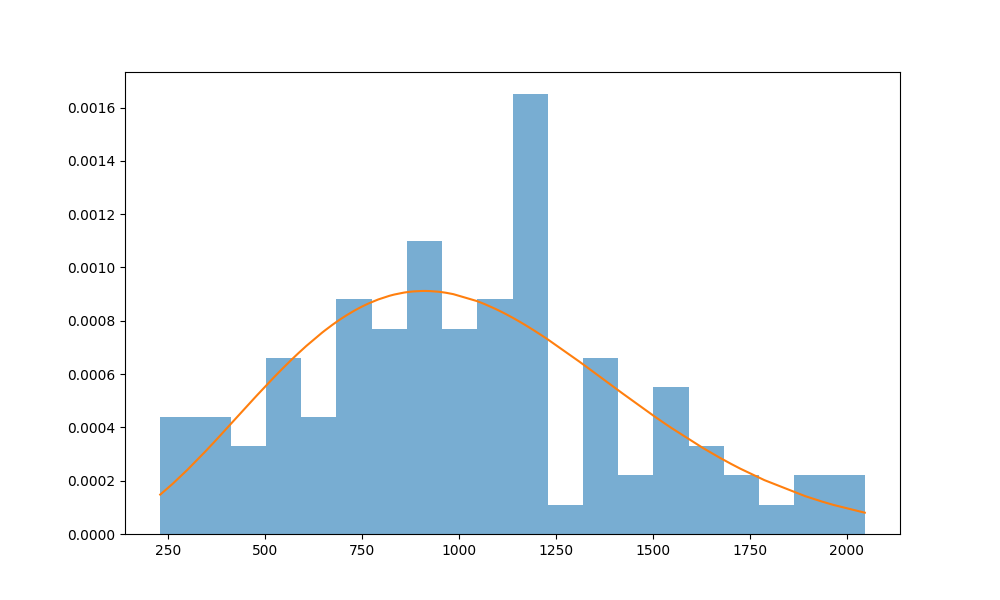
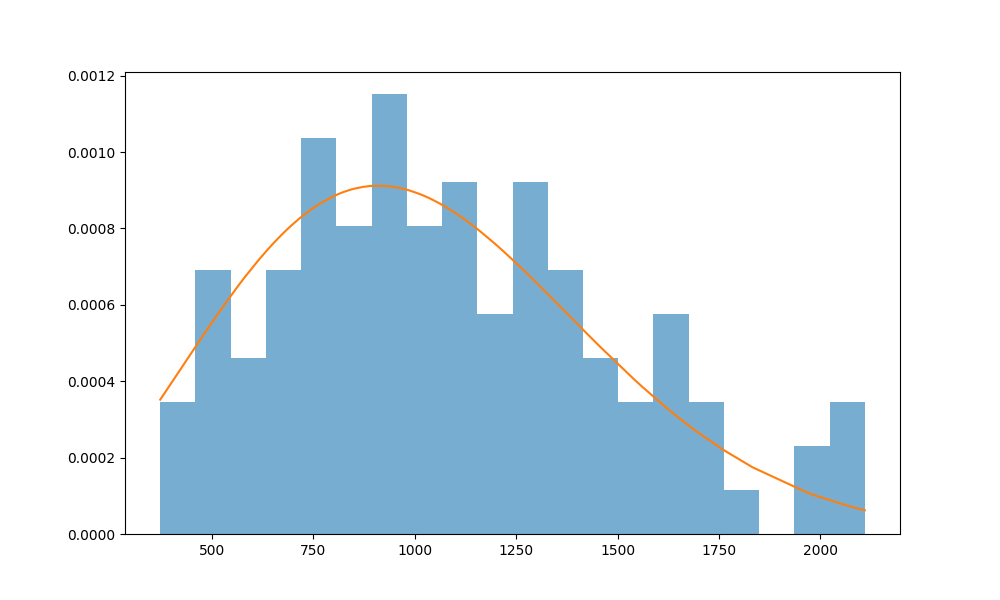
pridana schopnost tvorit grafy

diff --git a/Uloha 3/Plyn.py b/Uloha 3/Plyn.py
@@ -1,6 +1,7 @@
 import numpy as np
 import matplotlib.pyplot as plt
 from scipy.stats import maxwell
+from scipy import interpolate
 from matplotlib.animation import FuncAnimation
 
 #test
@@ -131,6 +132,11 @@ class Castice:
         #plt.show()
         plt.savefig(f'{nazev_grafu}.png')
 
+        y, binEdges = np.histogram(modul_rychlosti, bins=20)
+        bincenters = 0.5 * (binEdges[1:] + binEdges[:-1])
+        #return sorted_rychl, modul_rychlosti
+        return bincenters, y, modul_rychlosti
+
 
     def mihani_castic_anim(self):
         self.nejmensi_cas_srazky()
@@ -162,15 +168,41 @@ class Castice:
         plt.show()
 
 
+def vykresli_multigraf():
+    ...
+
+
+def vykresli_multiplotgraf(xs, ys):
+    plt.figure(figsize=(10,6))
+    for i in range(len(xs)):
+        plt.plot(xs[i], ys[i])
+    plt.savefig('multiplotgraf.png')
+
+def vykresli_multihistogram(ys):
+    plt.figure(figsize=(10,6))
+    plt.tight_layout()
+    for y in ys:
+        plt.hist(y, bins=50, alpha=0.5)
+    plt.savefig('multihistgraf.png')
+    
+
 
 def main():
+    xs, ys, yhists = [], [], []
     castice = Castice(27, 100)
     castice.generovat_zacatek()
     castice.mihani_castic(500) # ustalovani systemu
-    castice.porovnani_s_max_rozd("graficek_0")
+    x, y, yhist = castice.porovnani_s_max_rozd("graficek_0")
+    xs.append(x)
+    ys.append(y)
     for i in range(2):
         castice.mihani_castic(100)
-        castice.porovnani_s_max_rozd(f"graficek_{i+1}")
+        x, y, yhist = castice.porovnani_s_max_rozd(f"graficek_{i+1}")
+        xs.append(x)
+        ys.append(y)
+        yhists.append(yhist)
+    vykresli_multiplotgraf(xs, ys)
+    vykresli_multihistogram(yhists)
     castice.animovat_mihani_castic()
 
 
